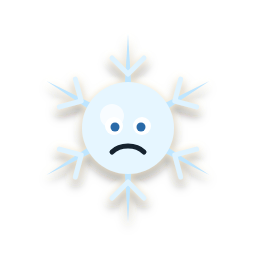
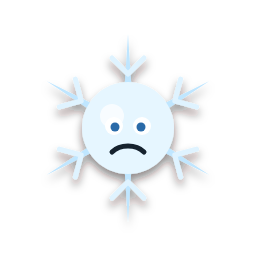
Ennemis : halo seulement pour les créatures sombres (les clairs étaient délavés)
Claude-Session: https://claude.ai/code/session_013EccGmGcBAAqujeLGmWbCi

diff --git a/Design/Enemies/bare.py b/Design/Enemies/bare.py
@@ -9,12 +9,13 @@ from outline import strip_outline
 O = '#13212e'
 RES = '../../Assets/Resources/Enemies'
 OUT = 'bare'
+DARK_BELOW = 0.42   # mean luminance under which a creature gets the pale halo
 os.makedirs(OUT, exist_ok=True)
 
 PLATE = re.compile(r'\s*<rect[^>]*fill="url\(#plate\)"[^>]*/>')
 UNDERLAY = re.compile(r'<path d="([^"]+)" fill="none" stroke="%s" stroke-width="[^"]+"\s*/>\s*(?=<path d="\1")' % O)
 
-def bare(src):
+def bare(src, glow=True):
     inner = re.search(r'<svg[^>]*>(.*)</svg>', src, re.S).group(1)
     inner = re.sub(r'<defs>.*?</defs>', lambda m: m.group(0) if ('Gradient' in m.group(0) and 'plate' not in m.group(0)) else re.sub(r'<(radial|linear)Gradient id="plate".*?</(radial|linear)Gradient>|<clipPath id="clip">.*?</clipPath>', '', m.group(0), flags=re.S), inner, flags=re.S)
     inner = PLATE.sub('', inner)
@@ -24,19 +25,12 @@ def bare(src):
     inner = UNDERLAY.sub('', inner)          # a thick dark copy of a line, drawn under the colored one: that was its outline
     inner = strip_outline(inner)
     return ('<svg xmlns="http://www.w3.org/2000/svg" viewBox="0 0 256 256" width="256" height="256"><defs>'
-            '<filter id="glow" x="-20%" y="-20%" width="140%" height="140%"><feDropShadow dx="0" dy="0" stdDeviation="3" flood-color="#fff1d0" flood-opacity="0.75"/></filter>'
+            '<filter id="glow" x="-20%" y="-20%" width="140%" height="140%"><feDropShadow dx="0" dy="0" stdDeviation="3" flood-color="#fff1d0" flood-opacity="@GLOW@"/></filter>'
             '<filter id="shade" x="-20%" y="-20%" width="140%" height="150%"><feDropShadow dx="0" dy="6" stdDeviation="4" flood-color="#1a0f08" flood-opacity="0.5"/></filter>'
-            '</defs><g filter="url(#shade)"><g filter="url(#glow)">@@</g></g></svg>\n').replace('@@', inner)
+            '</defs><g filter="url(#shade)"><g filter="url(#glow)">@@</g></g></svg>\n').replace('@@', inner).replace('@GLOW@', '0.7' if glow else '0')
 
-names = []
-for path in sorted(glob.glob('*.svg')):
-    name = os.path.splitext(path)[0]
-    if not os.path.exists('%s/%s.png' % (RES, name)):
-        continue
-    open('%s/%s.svg' % (OUT, name), 'w').write(bare(open(path).read()))
-    names.append(name)
-
-js = """
+def render(names, folder, dest):
+    js = """
 const { chromium } = require('playwright');
 const fs = require('fs');
 (async () => {
@@ -48,9 +42,35 @@ const fs = require('fs');
   }
   await b.close();
 })();
-""" % (names, OUT, RES)
-open('_render.js', 'w').write(js)
-env = dict(os.environ, NODE_PATH=subprocess.check_output(['npm', 'root', '-g']).decode().strip())
-subprocess.run(['node', '_render.js'], check=True, env=env)
-os.remove('_render.js')
-print('bare', len(names), 'enemies')
+""" % (names, folder, dest)
+    open('_render.js', 'w').write(js)
+    env = dict(os.environ, NODE_PATH=subprocess.check_output(['npm', 'root', '-g']).decode().strip())
+    subprocess.run(['node', '_render.js'], check=True, env=env)
+    os.remove('_render.js')
+
+def luminance(png):
+    """Mean luminance (0-1) of the opaque pixels of a PNG."""
+    from PIL import Image
+    im = Image.open(png).convert('RGBA')
+    total = n = 0
+    for r, g, b, a in im.getdata():
+        if a > 200:
+            total += 0.299 * r + 0.587 * g + 0.114 * b
+            n += 1
+    return total / n / 255 if n else 1
+
+names = [os.path.splitext(p)[0] for p in sorted(glob.glob('*.svg')) if os.path.exists('%s/%s.png' % (RES, os.path.splitext(p)[0]))]
+# First pass without the glow, to know which creatures are dark: only those get a pale halo (on a dark panel a halo around a pale creature just washes it out).
+tmp = OUT + '/_probe'
+os.makedirs(tmp, exist_ok=True)
+for name in names:
+    open('%s/%s.svg' % (OUT, name), 'w').write(bare(open(name + '.svg').read(), glow=False))
+render(names, OUT, tmp)
+dark = [n for n in names if luminance('%s/%s.png' % (tmp, n)) < DARK_BELOW]
+for name in names:
+    open('%s/%s.svg' % (OUT, name), 'w').write(bare(open(name + '.svg').read(), glow=name in dark))
+render(names, OUT, RES)
+for f in glob.glob(tmp + '/*.png'):
+    os.remove(f)
+os.rmdir(tmp)
+print('bare', len(names), 'enemies; haloed (dark):', ', '.join(dark))

diff --git a/docs/DECISIONS.md b/docs/DECISIONS.md
@@ -9713,3 +9713,4 @@ Ceci couvre l'intégralité des retours de playtest de cette liste.
 
 ## 2026-11-14 — Icônes des ennemis : la créature seule
 - Même traitement que les fertilizers : plus de plaque en bloc, de cadre ni de contour sombre. `Design/Enemies/bare.py` (remplace `add_depth.py` pour le rendu des PNG) retire la plaque, son cadre et la teinte plein cadre du corbeau enragé, supprime les contours bleu nuit des formes pleines (`Icons/outline.py`) et les gros traits sombres posés sous les traits colorés (leur contour), puis ajoute un halo crème doux (pour que les ennemis sombres — corbeau, souche, Locker — se lisent sur un fond foncé) et une ombre douce dessous. 17 PNG de `Assets/Resources/Enemies` regénérés (256 px), donc la bande des ennemis, la boutique et l'onglet Pests de la Collection changent. `add_depth.py` et le dossier `3d/` ne servent plus. Non vérifié dans Unity (le halo est à juger sur le fond réel).
+- Retour (« drôle de contraste qui rend les ennemis difficiles à lire ») : le halo crème posé sur tous les ennemis délavait les clairs (Basic, Poisoner) sur le bandeau bleu. `bare.py` mesure maintenant la luminance moyenne de chaque créature (premier rendu sans halo, seuil 0,42) : seuls les sombres (HeavyLocker, Locker, Plague, Reclaimer, Thief, ThiefEnraged) gardent le halo (opacité 0,7) ; les clairs n'ont que l'ombre douce. 17 PNG regénérés. Non vérifié dans Unity.
